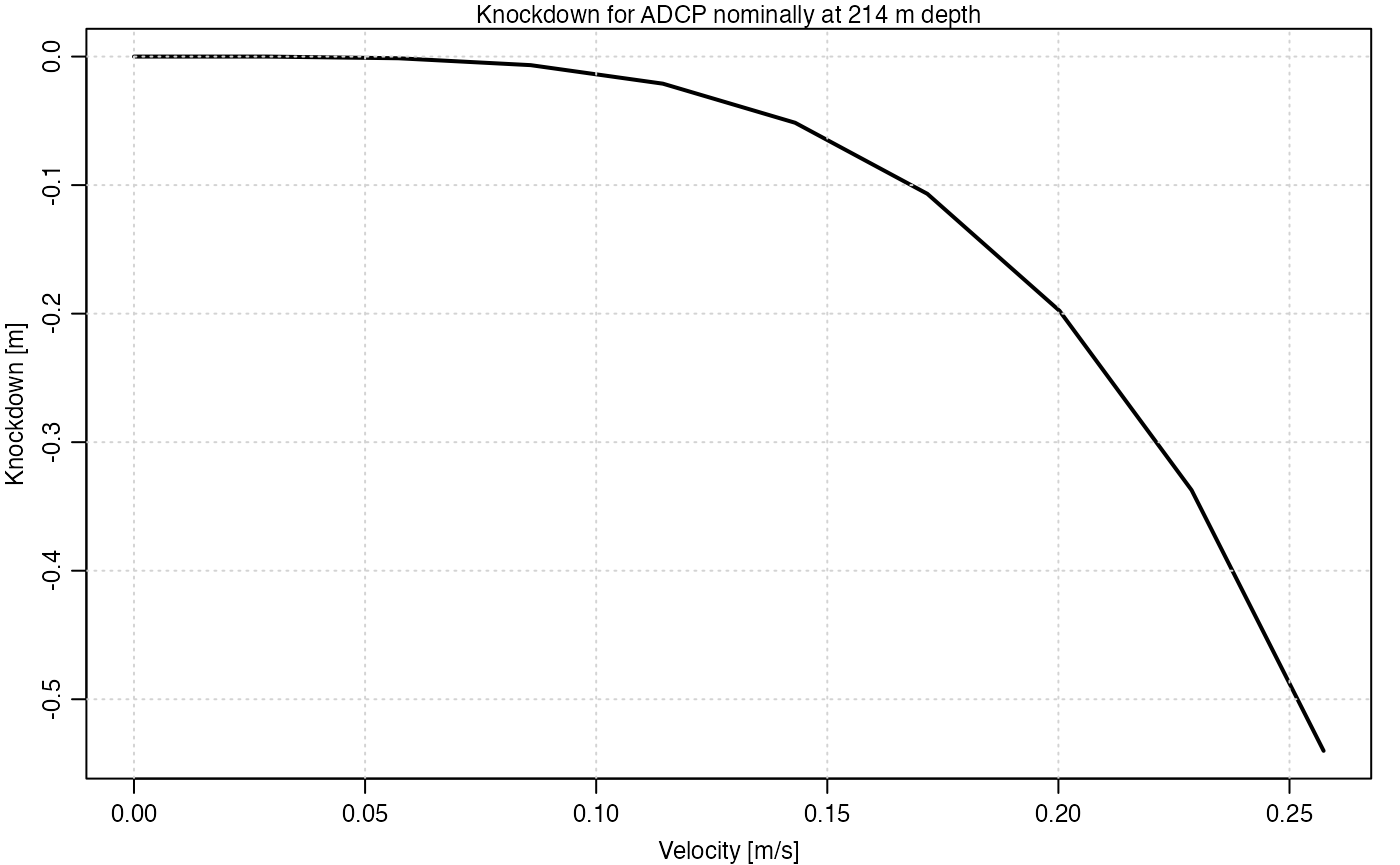
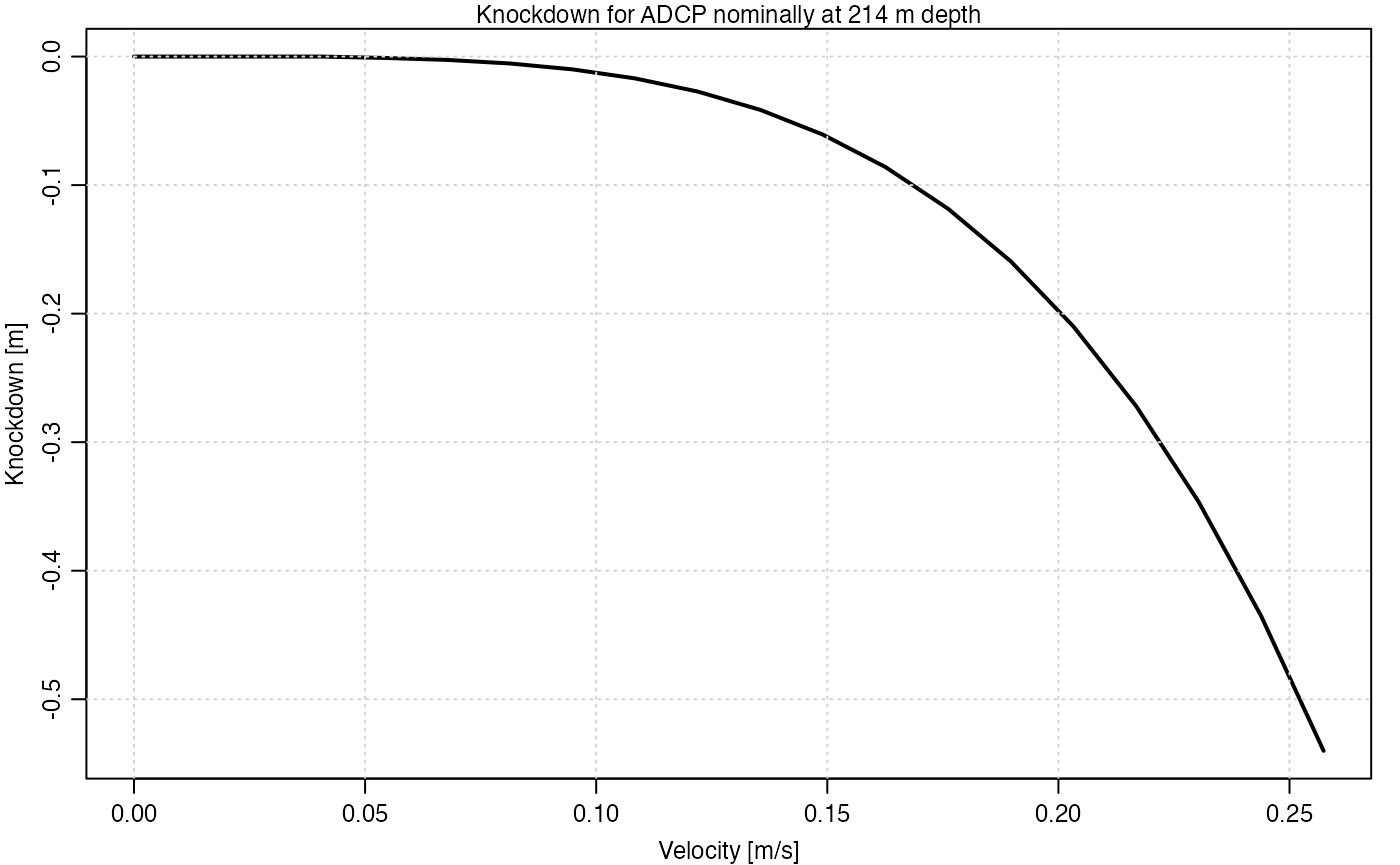
more points on knockdown curve (ok since 10X faster)

diff --git a/docs/articles/example.html b/docs/articles/example.html
@@ -224,7 +224,7 @@ the mooring knockdown, as follows. Note that the <span class="math inline">\(x\)
 velocity at the depth of the ADCP.</p>
 <div class="sourceCode" id="cb7"><pre class="downlit sourceCode r">
 <code class="sourceCode R"><span><span class="fu"><a href="https://rdrr.io/r/graphics/par.html" class="external-link">par</a></span><span class="op">(</span>mar <span class="op">=</span> <span class="fu"><a href="https://rdrr.io/r/base/c.html" class="external-link">c</a></span><span class="op">(</span><span class="fl">3</span>, <span class="fl">3</span>, <span class="fl">1</span>, <span class="fl">1</span><span class="op">)</span>, mgp <span class="op">=</span> <span class="fu"><a href="https://rdrr.io/r/base/c.html" class="external-link">c</a></span><span class="op">(</span><span class="fl">2</span>, <span class="fl">0.7</span>, <span class="fl">0</span><span class="op">)</span>, mfrow <span class="op">=</span> <span class="fu"><a href="https://rdrr.io/r/base/c.html" class="external-link">c</a></span><span class="op">(</span><span class="fl">1</span>, <span class="fl">1</span><span class="op">)</span><span class="op">)</span></span>
-<span><span class="va">N</span> <span class="op">&lt;-</span> <span class="fl">10</span></span>
+<span><span class="va">N</span> <span class="op">&lt;-</span> <span class="fl">20</span></span>
 <span><span class="va">u0</span> <span class="op">&lt;-</span> <span class="fu"><a href="https://rdrr.io/r/base/seq.html" class="external-link">seq</a></span><span class="op">(</span><span class="fl">0</span>, <span class="fl">0.3</span>, length.out <span class="op">=</span> <span class="va">N</span><span class="op">)</span></span>
 <span><span class="va">dz</span> <span class="op">&lt;-</span> <span class="fu"><a href="https://rdrr.io/r/base/rep.html" class="external-link">rep</a></span><span class="op">(</span><span class="cn">NA</span>, <span class="va">N</span><span class="op">)</span></span>
 <span><span class="va">U</span> <span class="op">&lt;-</span> <span class="fu"><a href="https://rdrr.io/r/base/rep.html" class="external-link">rep</a></span><span class="op">(</span><span class="cn">NA</span>, <span class="va">N</span><span class="op">)</span></span>
